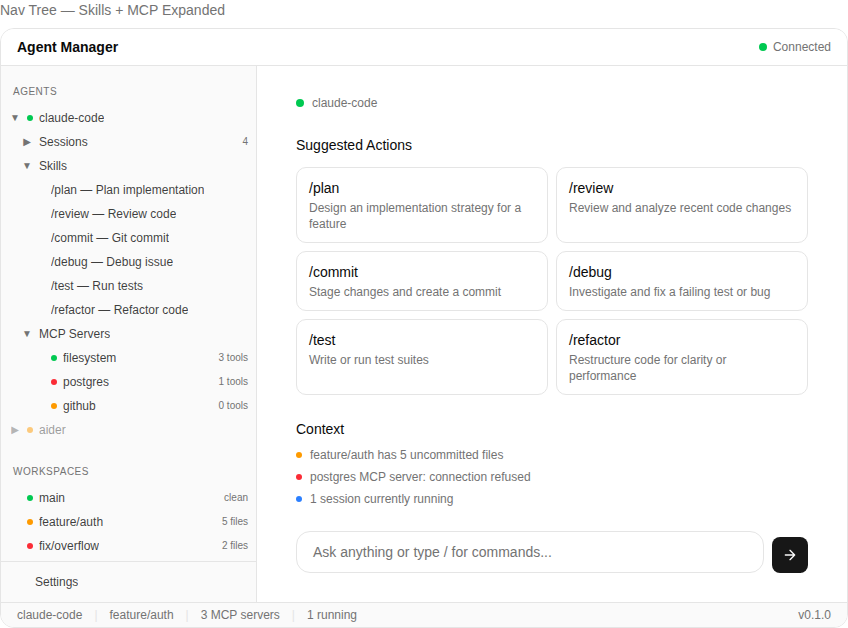
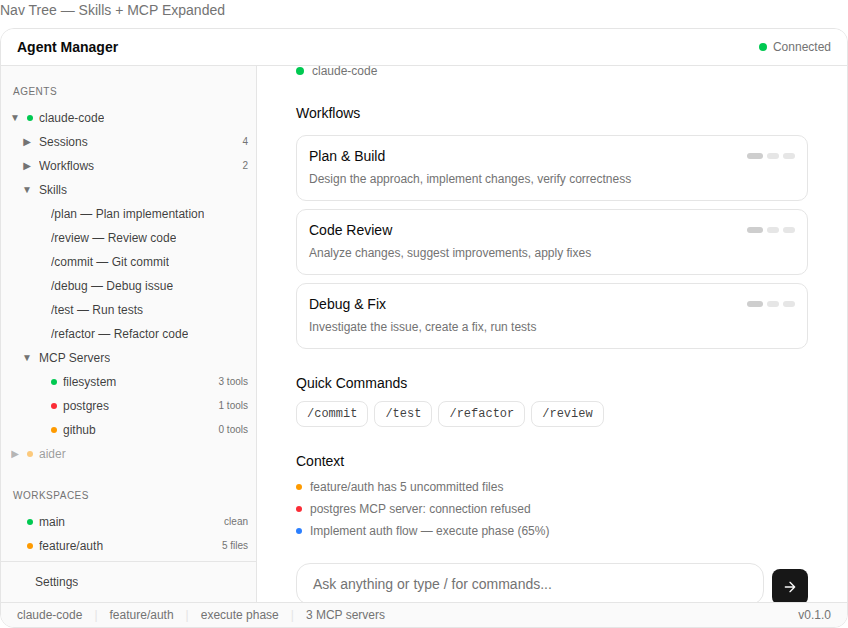
Remove tabbed nav, strip cost tracking, add workflow-focused snapshots
- Router navbar now shows only branding + connection status (no tab links)
- Sidebar shows adapter ID instead of cost per session
- Sessions list no longer displays cost column
- Snapshot nav tree includes Workflows node with phase progress
- MockCommandActions redesigned around multi-phase workflows
  (Plan & Build, Code Review, Debug & Fix) with phase indicators
- MockDetailContent shows workflow phases, research docs, MCP servers
- MockStatusBar shows current workflow phase
- Regenerated 5 baseline screenshots

https://claude.ai/code/session_01KHwVfugE3ePC4tWosYwoxd

diff --git a/apps/web/src/pages/snapshots.tsx b/apps/web/src/pages/snapshots.tsx
@@ -451,11 +451,18 @@ const mockAdapterSkills = [
   { id: 'refactor', cmd: '/refactor', label: 'Refactor code' },
 ];
 
+// Adapter-provided workflows (multi-phase operations)
+const mockWorkflows = [
+  { id: 'wf-1', name: 'Implement auth flow', phase: 'execute' as const, progress: 65, status: 'running' },
+  { id: 'wf-2', name: 'Fix CSS layout overflow', phase: 'verify' as const, progress: 100, status: 'completed' },
+];
+
 const claudeSessions = mockSessionSummaries.filter((s) => s.adapterId === 'claude-code');
 const aiderSessions = mockSessionSummaries.filter((s) => s.adapterId === 'aider');
 
 interface NavTreeConfig {
   expandSessions?: boolean;
+  expandWorkflows?: boolean;
   expandSkills?: boolean;
   expandMcp?: boolean;
   expandAider?: boolean;
@@ -466,6 +473,7 @@ interface NavTreeConfig {
 
 function MockNavTree({
   expandSessions = true,
+  expandWorkflows = false,
   expandSkills = false,
   expandMcp = false,
   expandAider = false,
@@ -511,6 +519,25 @@ function MockNavTree({
                 dot={statusDotClass[s.status] ?? 'bg-muted-foreground'}
                 label={s.prompt}
                 selected={selectedNode === `session:${s.sessionId}`}
+              />
+            ))}
+
+          <TreeRow
+            indent={1}
+            expanded={expandWorkflows}
+            label="Workflows"
+            badge={expandWorkflows ? undefined : String(mockWorkflows.length)}
+          />
+          {expandWorkflows &&
+            mockWorkflows.map((wf) => (
+              <TreeRow
+                key={wf.id}
+                indent={2}
+                expanded={null}
+                dot={statusDotClass[wf.status] ?? 'bg-muted-foreground'}
+                label={`${wf.name} \u2014 ${wf.phase}`}
+                badge={`${wf.progress}%`}
+                selected={selectedNode === `workflow:${wf.id}`}
               />
             ))}
 
@@ -606,47 +633,89 @@ function MockNavTree({
 // ---------------------------------------------------------------------------
 
 function MockCommandActions() {
-  const actions = [
-    { id: 'plan', cmd: '/plan', description: 'Design an implementation strategy for a feature' },
-    { id: 'review', cmd: '/review', description: 'Review and analyze recent code changes' },
-    { id: 'commit', cmd: '/commit', description: 'Stage changes and create a commit' },
-    { id: 'debug', cmd: '/debug', description: 'Investigate and fix a failing test or bug' },
-    { id: 'test', cmd: '/test', description: 'Write or run test suites' },
-    { id: 'refactor', cmd: '/refactor', description: 'Restructure code for clarity or performance' },
+  const workflows = [
+    {
+      id: 'plan-build',
+      name: 'Plan & Build',
+      description: 'Design the approach, implement changes, verify correctness',
+      phases: ['plan', 'execute', 'verify'],
+    },
+    {
+      id: 'code-review',
+      name: 'Code Review',
+      description: 'Analyze changes, suggest improvements, apply fixes',
+      phases: ['plan', 'execute', 'verify'],
+    },
+    {
+      id: 'debug-fix',
+      name: 'Debug & Fix',
+      description: 'Investigate the issue, create a fix, run tests',
+      phases: ['plan', 'execute', 'verify'],
+    },
   ];
+
+  const quickCommands = ['/commit', '/test', '/refactor', '/review'];
 
   const contextHints = [
     { text: 'feature/auth has 5 uncommitted files', status: 'warning' as const },
     { text: 'postgres MCP server: connection refused', status: 'error' as const },
-    { text: '1 session currently running', status: 'info' as const },
+    { text: 'Implement auth flow \u2014 execute phase (65%)', status: 'info' as const },
   ];
 
   return (
     <div className="flex h-full items-center justify-center p-8">
       <div className="w-full max-w-lg space-y-6">
-        {/* Provider badge */}
+        {/* Provider */}
         <div className="flex items-center gap-2">
           <div className="h-2 w-2 rounded-full bg-green-500" />
           <span className="text-xs font-medium text-muted-foreground">claude-code</span>
         </div>
 
-        {/* Actions grid */}
+        {/* Adapter workflows */}
         <div>
-          <h2 className="text-sm font-medium text-foreground">Suggested Actions</h2>
-          <div className="mt-3 grid grid-cols-2 gap-2">
-            {actions.map((action) => (
+          <h2 className="text-sm font-medium text-foreground">Workflows</h2>
+          <div className="mt-3 space-y-2">
+            {workflows.map((wf) => (
               <div
-                key={action.id}
-                className="flex flex-col rounded-lg border border-border px-3 py-2.5"
+                key={wf.id}
+                className="rounded-lg border border-border px-3 py-2.5"
               >
-                <span className="text-sm font-medium text-foreground">{action.cmd}</span>
-                <span className="mt-0.5 text-xs text-muted-foreground">{action.description}</span>
+                <div className="flex items-center justify-between">
+                  <span className="text-sm font-medium text-foreground">{wf.name}</span>
+                  <div className="flex items-center gap-1">
+                    {wf.phases.map((phase, i) => (
+                      <div
+                        key={phase}
+                        className={cn(
+                          'h-1.5 rounded-full',
+                          i === 0 ? 'w-4 bg-foreground/20' : 'w-3 bg-foreground/10',
+                        )}
+                      />
+                    ))}
+                  </div>
+                </div>
+                <span className="mt-0.5 text-xs text-muted-foreground">{wf.description}</span>
               </div>
             ))}
           </div>
         </div>
 
-        {/* Context hints */}
+        {/* Quick commands */}
+        <div>
+          <h2 className="text-sm font-medium text-foreground">Quick Commands</h2>
+          <div className="mt-2 flex flex-wrap gap-1.5">
+            {quickCommands.map((cmd) => (
+              <span
+                key={cmd}
+                className="rounded-md border border-border px-2.5 py-1 text-xs font-mono text-foreground/80"
+              >
+                {cmd}
+              </span>
+            ))}
+          </div>
+        </div>
+
+        {/* Context */}
         <div>
           <h2 className="text-sm font-medium text-foreground">Context</h2>
           <div className="mt-2 space-y-1.5">
@@ -689,14 +758,59 @@ function MockCommandActions() {
 // ---------------------------------------------------------------------------
 
 function MockDetailContent() {
+  const phases = [
+    { id: 'plan', label: 'Plan', status: 'completed' as const },
+    { id: 'execute', label: 'Execute', status: 'running' as const },
+    { id: 'verify', label: 'Verify', status: 'pending' as const },
+  ];
+
   return (
     <div className="flex h-full flex-col">
       <div className="border-b border-border px-4 py-3">
-        <h2 className="text-sm font-semibold text-foreground">Session Context</h2>
+        <h2 className="text-sm font-semibold text-foreground">Workflow Context</h2>
       </div>
       <div className="flex-1 overflow-y-auto p-4 space-y-4">
+        {/* Workflow phase progress */}
         <div>
-          <h3 className="text-xs font-medium uppercase tracking-wide text-muted-foreground">Tasks</h3>
+          <h3 className="text-xs font-medium uppercase tracking-wide text-muted-foreground">
+            Implement Auth Flow
+          </h3>
+          <div className="mt-2 space-y-1.5">
+            {phases.map((phase) => (
+              <div key={phase.id} className="flex items-center gap-2 text-xs">
+                <div
+                  className={cn(
+                    'h-1.5 w-1.5 shrink-0 rounded-full',
+                    phase.status === 'completed'
+                      ? 'bg-green-500'
+                      : phase.status === 'running'
+                        ? 'bg-blue-500 animate-pulse'
+                        : 'bg-muted-foreground/30',
+                  )}
+                />
+                <span
+                  className={cn(
+                    phase.status === 'running'
+                      ? 'font-medium text-foreground'
+                      : 'text-muted-foreground',
+                  )}
+                >
+                  {phase.label}
+                </span>
+                {phase.status === 'running' && (
+                  <span className="ml-auto text-[10px] text-muted-foreground">65%</span>
+                )}
+              </div>
+            ))}
+          </div>
+        </div>
+        <Separator />
+
+        {/* Tasks in current phase */}
+        <div>
+          <h3 className="text-xs font-medium uppercase tracking-wide text-muted-foreground">
+            Tasks
+          </h3>
           <div className="mt-2 space-y-2">
             {mockTasks.slice(0, 2).map((task) => (
               <TaskCard key={task.id} task={task} compact />
@@ -704,20 +818,26 @@ function MockDetailContent() {
           </div>
         </div>
         <Separator />
+
+        {/* Research docs produced by the workflow */}
         <div>
           <h3 className="text-xs font-medium uppercase tracking-wide text-muted-foreground">
-            Available Skills
+            Research
           </h3>
-          <div className="mt-2 space-y-1">
-            {mockAdapterSkills.slice(0, 4).map((s) => (
-              <div key={s.id} className="flex items-center gap-2 text-xs text-muted-foreground">
-                <span className="font-mono">{s.cmd}</span>
-                <span className="text-muted-foreground/60">{s.label}</span>
-              </div>
-            ))}
+          <div className="mt-2 space-y-1.5">
+            <div className="flex items-center gap-2 text-xs text-muted-foreground">
+              <Badge variant="outline" className="text-[9px] px-1 py-0">plan</Badge>
+              <span>Authentication Architecture</span>
+            </div>
+            <div className="flex items-center gap-2 text-xs text-muted-foreground">
+              <Badge variant="outline" className="text-[9px] px-1 py-0">analysis</Badge>
+              <span>Existing auth flow audit</span>
+            </div>
           </div>
         </div>
         <Separator />
+
+        {/* MCP Servers */}
         <div>
           <h3 className="text-xs font-medium uppercase tracking-wide text-muted-foreground">
             MCP Servers
@@ -739,23 +859,6 @@ function MockDetailContent() {
                 <span className="ml-auto text-[10px]">{s.tools.length} tools</span>
               </div>
             ))}
-          </div>
-        </div>
-        <Separator />
-        <div>
-          <h3 className="text-xs font-medium uppercase tracking-wide text-muted-foreground">
-            Active Hooks
-          </h3>
-          <div className="mt-2 space-y-1">
-            {mockHooks
-              .filter((h) => h.enabled)
-              .map((h) => (
-                <div key={h.id} className="flex items-center gap-2 text-xs text-muted-foreground">
-                  <div className="h-1.5 w-1.5 rounded-full bg-green-500" />
-                  <span>{h.name}</span>
-                  <span className="ml-auto text-[10px]">{h.event}</span>
-                </div>
-              ))}
           </div>
         </div>
       </div>
@@ -792,9 +895,9 @@ function MockStatusBar() {
       <span className="text-border">|</span>
       <span>feature/auth</span>
       <span className="text-border">|</span>
-      <span>3 MCP servers</span>
+      <span>execute phase</span>
       <span className="text-border">|</span>
-      <span>1 running</span>
+      <span>3 MCP servers</span>
       <span className="flex-1" />
       <span>v0.1.0</span>
     </ShellStatusBar>
@@ -945,13 +1048,19 @@ export function SnapshotsPage() {
         {/* ============================================================= */}
         <Section title="App Shell — High-Level Screens" testId="section-app-shell">
 
-          {/* ---- 1. Landing — Nav tree + context-sensitive commands ---- */}
-          <SubSection title="Landing — Nav Tree + Suggested Actions" testId="ss-shell-landing">
+          {/* ---- 1. Landing — Nav tree + adapter workflows ---- */}
+          <SubSection title="Landing — Nav Tree + Adapter Workflows" testId="ss-shell-landing">
             <div className="h-[600px] rounded-xl border border-border overflow-hidden">
               <AppShell
                 defaultLayout="sidebar-main"
                 navbar={<MockNavbar />}
-                sidebar={<MockNavTree expandSessions={true} expandWorkspaces={true} />}
+                sidebar={
+                  <MockNavTree
+                    expandSessions={true}
+                    expandWorkflows={true}
+                    expandWorkspaces={true}
+                  />
+                }
                 statusBar={<MockStatusBar />}
               >
                 <MockCommandActions />

diff --git a/apps/web/src/router.tsx b/apps/web/src/router.tsx
@@ -1,4 +1,4 @@
-import { createRouter, createRoute, createRootRoute, redirect, Outlet, Link } from '@tanstack/react-router';
+import { createRouter, createRoute, createRootRoute, redirect, Outlet } from '@tanstack/react-router';
 import { useEffect } from 'react';
 import { useConnectionStore } from './stores/connection.js';
 import { useSessionsStore } from './stores/sessions.js';
@@ -32,33 +32,16 @@ const rootRoute = createRootRoute({
       return unsub;
     }, [onEvent, handleEvent]);
 
-    const navItems = [
-      { to: '/ops' as const, label: 'Ops' },
-      { to: '/sessions' as const, label: 'Sessions' },
-      { to: '/settings' as const, label: 'Settings' },
-      { to: '/snapshots' as const, label: 'Snapshots' },
-    ];
-
     return (
       <div className="flex h-screen flex-col bg-background">
         <ShellNavbar
           leading={
-            <div className="flex items-center gap-1">
-              <span className="text-sm font-semibold text-foreground">Agent Manager</span>
-              <div className={cn('ml-2 h-2 w-2 rounded-full', connected ? 'bg-green-500' : 'bg-red-500')} />
-            </div>
+            <span className="text-sm font-semibold text-foreground">Agent Manager</span>
           }
           trailing={
-            <div className="flex items-center gap-1">
-              {navItems.map(({ to, label }) => (
-                <Link
-                  key={to}
-                  to={to}
-                  className="rounded-md px-3 py-1.5 text-xs font-medium text-muted-foreground transition-colors hover:bg-accent hover:text-accent-foreground [&.active]:bg-accent [&.active]:text-accent-foreground"
-                >
-                  {label}
-                </Link>
-              ))}
+            <div className="flex items-center gap-1.5 text-xs text-muted-foreground">
+              <div className={cn('h-2 w-2 rounded-full', connected ? 'bg-green-500' : 'bg-red-500')} />
+              <span>{connected ? 'Connected' : 'Disconnected'}</span>
             </div>
           }
         />
@@ -161,8 +144,6 @@ const sessionsRoute = createRoute({
                   <span>{session.adapterId}</span>
                   <span>&middot;</span>
                   <span>{session.status}</span>
-                  <span>&middot;</span>
-                  <span>${session.costUsd.toFixed(4)}</span>
                   <span>&middot;</span>
                   <span>{session.eventCount} events</span>
                 </div>

diff --git a/apps/web/src/components/layout/sidebar.tsx b/apps/web/src/components/layout/sidebar.tsx
@@ -55,7 +55,7 @@ export function Sidebar({ sessions, activeSessionId, onSelectSession, connected,
               <div className={cn('h-1.5 w-1.5 shrink-0 rounded-full', statusColors[session.status] ?? 'bg-muted-foreground')} />
               <div className="min-w-0 flex-1">
                 <div className="truncate text-xs font-medium">{session.prompt}</div>
-                <div className="text-xs text-muted-foreground">${session.costUsd.toFixed(4)}</div>
+                <div className="text-xs text-muted-foreground">{session.adapterId}</div>
               </div>
             </button>
           ))}
